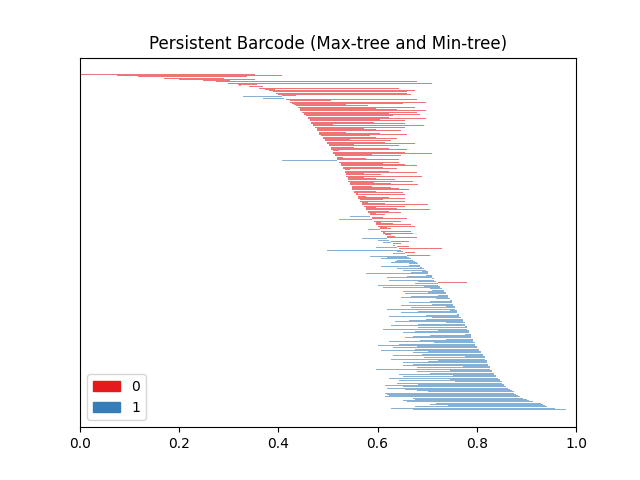
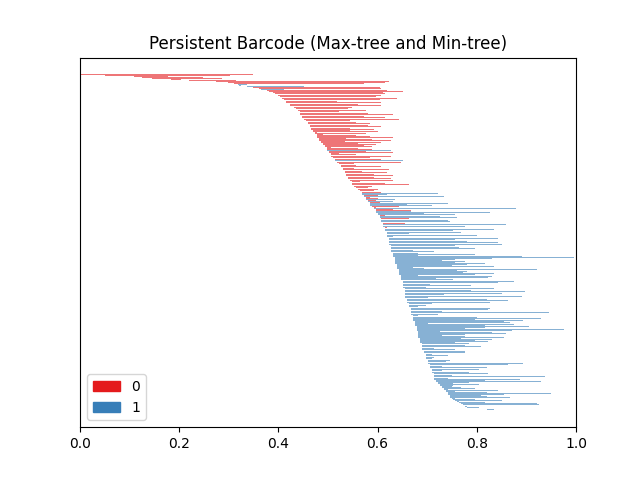
filterの比較を行っている

Changed region(s): [[0.25, 0.1562, 0.875, 0.875]]

diff --git a/soft_frangi/gaussian_smoothing.py b/soft_frangi/gaussian_smoothing.py
@@ -1,0 +1,93 @@
+import math
+import numbers
+import torch
+from torch import nn
+from torch.nn import functional as F
+
+"""
+Gaussian smoothing with Pytorch.
+Source:
+https://discuss.pytorch.org/t/is-there-anyway-to-do-gaussian-filtering-for-an-image-2d-3d-in-pytorch/12351/10
+"""
+
+
+class GaussianSmoothing(nn.Module):
+    """
+    Apply gaussian smoothing on a
+    1d, 2d or 3d tensor. Filtering is performed seperately for each channel
+    in the input using a depthwise convolution.
+    Arguments:
+        channels (int, sequence): Number of channels of the input tensors. Output will
+            have this number of channels as well.
+        kernel_size (int, sequence): Size of the gaussian kernel.
+        sigma (float, sequence): Standard deviation of the gaussian kernel.
+        dim (int, optional): The number of dimensions of the data.
+            Default value is 2 (spatial).
+    """
+
+    def __init__(self, channels, kernel_size, sigma, dim=2, order=0, device=None):
+        super(GaussianSmoothing, self).__init__()
+        self.padd = kernel_size // 2
+        self.dim = dim
+        self.std = sigma
+        if isinstance(kernel_size, numbers.Number):
+            kernel_size = [kernel_size] * dim
+        if isinstance(sigma, numbers.Number):
+            sigma = [sigma] * dim
+
+        # The gaussian kernel is the product of the
+        # gaussian function of each dimension.
+        kernel = 1
+        meshgrids = torch.meshgrid(
+            [
+                torch.arange(size, dtype=torch.float32)
+                for size in kernel_size
+            ]
+        , indexing='ij')
+        for size, std, mgrid in zip(kernel_size, sigma, meshgrids):
+            mean = (size - 1) / 2
+            kernel *= 1 / (std * math.sqrt(2 * math.pi)) * \
+                      torch.exp(-((mgrid - mean) / std) ** 2 / 2)
+
+        # Make sure sum of values in gaussian kernel equals 1.
+        kernel = kernel / torch.sum(kernel)
+
+        # Reshape to depthwise convolutional weight
+        kernel = kernel.view(1, 1, *kernel.size())
+
+        if order == 'xx':
+            kernel[0, 0] = ((kernel[0, 0] * ((meshgrids[0].T - self.padd) ** 2 - self.std ** 2) / self.std ** 4))
+        elif order == 'yy':
+            kernel[0, 0] = ((kernel[0, 0] * ((meshgrids[0] - self.padd) ** 2 - self.std ** 2) / self.std ** 4))
+        elif order == 'xy':
+            kernel[0, 0] = kernel[0, 0] * (meshgrids[0] - self.padd) * (meshgrids[0].T - self.padd) / self.std ** 4
+
+        kernel = kernel.repeat(channels, *[1] * (kernel.dim() - 1))
+        kernel.requires_grad = False
+        if device is not None:
+            kernel = kernel.to(device)
+        self.register_buffer('weight', kernel)
+        self.groups = channels
+
+        if dim == 1:
+            self.conv = F.conv1d
+        elif dim == 2:
+            self.conv = F.conv2d
+        elif dim == 3:
+            self.conv = F.conv3d
+        else:
+            raise RuntimeError(
+                'Only 1, 2 and 3 dimensions are supported. Received {}.'.format(dim)
+            )
+
+    def forward(self, x):
+        """
+        Apply gaussian filter to input.
+        Arguments:
+            x (torch.Tensor): Input to apply gaussian filter on.
+        Returns:
+            filtered (torch.Tensor): Filtered output.
+        """
+        if self.dim == 2:
+            x = F.pad(x, (self.padd, self.padd, self.padd, self.padd), mode='reflect')
+        return self.conv(x, weight=self.weight, groups=self.groups)

diff --git a/soft_frangi/soft_frangi_filter2d.py b/soft_frangi/soft_frangi_filter2d.py
@@ -1,0 +1,67 @@
+import torch
+from torch import nn
+from .gaussian_smoothing import GaussianSmoothing
+
+
+class SoftFrangiFilter2D(nn.Module):
+
+    def __init__(self, channels, kernel_size, sigmas, beta, c, device):
+        """
+        Apply Soft Frangi filter on a 3d tensor.
+        Arguments:
+            channels (int, sequence): Number of channels of the input tensors. Output will
+                have this number of channels as well.
+            kernel_size (int, sequence): Size of the gaussian kernel.
+            sigmas (list, sequence): List of standard deviations of the gaussian kernels.
+            beta (float, sequence): Beta parameter of Frangi filter.
+            beta (с, sequence): С parameter of Frangi filter.
+                Default value is 2 (spatial).
+        """
+        super(SoftFrangiFilter2D, self).__init__()
+        self.sigmas = sigmas
+        self.gaus_filters = []
+        self.beta = beta
+        self.c = c
+        for sigma in sigmas:
+            self.gaus_filters.append([])
+            for order in ['xx', 'yy', 'xy']:
+                self.gaus_filters[-1].append(GaussianSmoothing(channels, kernel_size, sigma, 2, order, device))
+
+    def _calc_frangi_response(self, xx, yy, xy):
+        """
+        Calculate Frangi filter response give the second order derivatives.
+        Arguments:
+            xx (torch.Tensor, sequence): (bs, channels, h, w), second order derivative on x-axis
+            yy (torch.Tensor, sequence): (bs, channels, h, w), second order derivative on y-axis
+            xy (torch.Tensor, sequence): (bs, channels, h, w), second order derivative on xy-axes
+        """
+        lambda_t1 = ((xx + yy) + torch.sqrt((xx - yy) ** 2 + 4 * xy ** 2 + 1e-6)) / 2
+        lambda_t2 = ((xx + yy) - torch.sqrt((xx - yy) ** 2 + 4 * xy ** 2 + 1e-6)) / 2
+        lambdas = torch.stack((lambda_t1, lambda_t2), dim=0)
+        lambdas_abs, sorted_ind = torch.sort(torch.abs(lambdas), dim=0)
+        lambda2_sign = (lambdas * sorted_ind).sum(dim=0)
+        lambda1 = lambdas_abs[0]
+        lambda2 = lambdas_abs[1]
+        blobness = torch.zeros(lambda1.shape, device=lambda1.device)
+        blobness[lambda2 != 0] = blobness[lambda2 != 0] + torch.exp(
+            -(lambda1[lambda2 != 0] / lambda2[lambda2 != 0]) ** 2 / (2 * self.beta ** 2))
+        hess_struc = (1 - torch.exp(-torch.sqrt(lambda1 ** 2 + lambda2 ** 2) ** 2 / (2 * self.c ** 2)))
+        vness = blobness * hess_struc
+        vness[lambda2_sign > 0] = vness[lambda2_sign > 0] * 0
+        return vness, blobness, hess_struc, lambda1, lambda2
+
+    def forward(self, img):
+        """
+        Apply Soft Frangi filter on a batch of images.
+        Arguments:
+            img (torch.Tensor, sequence): Tensor of shape (bs, channels, h, w)
+        """
+        frangi_resp = torch.zeros((len(self.sigmas),) + img.shape, dtype=torch.float32, device=img.device)
+        for i in range(len(self.sigmas)):
+            xx = self.gaus_filters[i][0](img)
+            yy = self.gaus_filters[i][1](img)
+            xy = self.gaus_filters[i][2](img)
+            vness, _, _, _, _ = self._calc_frangi_response(xx, yy, xy)
+            frangi_resp[i] = vness
+        max_frangi_resp = (torch.softmax(frangi_resp, dim=0) * frangi_resp).sum(dim=0)
+        return max_frangi_resp

diff --git a/filter_comp.py b/filter_comp.py
@@ -1,0 +1,69 @@
+import numpy as np
+import matplotlib.pyplot as plt
+from skimage import data
+from skimage.filters import frangi, sato, hessian, meijering
+from skimage.color import rgb2gray
+import SimpleITK as sitk
+from soft_frangi.soft_frangi_filter2d import SoftFrangiFilter2D
+import torch
+
+# サンプル画像の読み込み
+image = sitk.GetArrayFromImage(sitk.ReadImage("200.mhd"))
+
+# ランダムな場所から64*64に切り取る
+x = np.random.randint(0, image.shape[0] - 64)
+y = np.random.randint(0, image.shape[1] - 64)
+
+org_image = image[x:x+64, y:y+64]
+
+# org_image = sitk.GetArrayFromImage(sitk.ReadImage("1.mhd"))
+org_image = (org_image - org_image.min()) / (org_image.max() - org_image.min())
+
+print(org_image.max(), org_image.min())
+# 反転
+image = 1 - org_image
+
+# Frangiフィルターの適用
+frangi_result = frangi(image)
+
+# Satoフィルターの適用
+sato_result = sato(image)
+
+hessian_result = hessian(org_image)
+meijering_result = meijering(image)
+
+# ライブラリのSoft Frangiフィルターの適用
+tensor_image = torch.tensor(org_image).unsqueeze(0).unsqueeze(0).float()
+soft_frangi_filter = SoftFrangiFilter2D(1, 7, [2,4,8], 0.5, 0.5, 'cpu')
+soft_frangi_response = soft_frangi_filter(tensor_image)
+np_image = soft_frangi_response.squeeze().detach().numpy()
+
+# 結果の表示
+fig, axes = plt.subplots(2, 3, figsize=(15, 10))
+
+axes[0, 0].imshow(org_image, cmap='gray')
+axes[0, 0].set_title('Original Image')
+axes[0, 0].axis('off')
+
+axes[0, 1].imshow(frangi_result, cmap='gray')
+axes[0, 1].set_title('Frangi Filter')
+axes[0, 1].axis('off')
+
+axes[0, 2].imshow(sato_result, cmap='gray')
+axes[0, 2].set_title('Sato Filter')
+axes[0, 2].axis('off')
+
+axes[1, 0].imshow(hessian_result, cmap='gray')
+axes[1, 0].set_title('Hessian Filter')
+axes[1, 0].axis('off')
+
+axes[1, 1].imshow(meijering_result, cmap='gray')
+axes[1, 1].set_title('Meijering Filter')
+axes[1, 1].axis('off')
+
+axes[1, 2].imshow(np_image, cmap='gray')
+axes[1, 2].set_title('Soft Frangi Filter')
+axes[1, 2].axis('off')
+
+plt.tight_layout()
+plt.savefig('filter_comp.png')

diff --git a/create_tree.py b/create_tree.py
@@ -91,7 +91,7 @@ def create_min_persistent_barcode(tree, altitudes):
                         leaf, _ = find_max_altitude_leaf(tree, altitudes, child)
                         if leaf != min_child:
                             # 最小のaltitudeを持つ葉ノード以外の成分は消滅
-                            barcode.append((1.0 - birth_altitude, 1.0 - current_altitude))
+                            barcode.append((1.0 - current_altitude, 1.0 - birth_altitude))
                         else:
                             # 最小のaltitudeを持つ葉ノードの成分は継続
                             active_components[node] = birth_altitude
@@ -130,11 +130,12 @@ plt.savefig('image.png')
 
 # グラフの作成
 start_time = time.time()
-graph = hg.get_4_adjacency_graph(image.shape)
+graph = hg.get_8_adjacency_graph(image.shape)
+min_graph = hg.get_4_adjacency_graph(image.shape)
 
 max_tree, max_altitudes = hg.component_tree_max_tree(graph, image.flatten())
 
-min_tree, min_altitudes = hg.component_tree_min_tree(graph, image.flatten())
+min_tree, min_altitudes = hg.component_tree_min_tree(min_graph, image.flatten())
 
 # Persistent barcodeの作成 (Max-tree)
 max_barcode = create_persistent_barcode(max_tree, max_altitudes)
